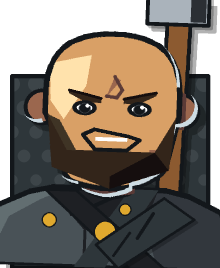
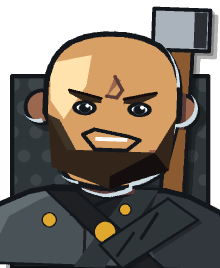
Harden Orlov and Ferrow and clear Morn's hammer from the frame (#564)
* Harden Orlov and Ferrow and clear Morn's hammer from the frame

Two of the six grey rows still read friendly: Orlov's smirk and Ferrow's
bared teeth, both over eyes big enough to catch the light twice. Both take
a clenched mouth and a smaller eye dial instead.

Morn's hammer head was cut flat by the first row of the portrait, which
reads as a crop accident rather than as an object leaving the frame. The
head drops far enough to clear it once his pose is applied, and a test
holds it there.

* Tighten the Iron eye cap to the widest eye left on the sheet

At 0.94 a narrowed lid still left a round bright sclera, so the lint passed
the face the QA sweep flagged. 0.90 is what the six grey rows now wear.

diff --git a/generators/portraits/tests/test_props.py b/generators/portraits/tests/test_props.py
@@ -167,6 +167,18 @@ class TheCigarClearsTheMouth(unittest.TestCase):
         self.assertIn((*props.GOLD, 255), colours)
 
 
+class TheHammerClearsTheTopOfTheFrame(unittest.TestCase):
+    """Radek Morn's hammer head was cut flat by the first row of the portrait,
+    which reads as a crop accident. It is the head's own edge that has to clear
+    the frame, so this is measured on the hammer rather than on every prop:
+    Ivar Thorne's axe leaves the same edge on a diagonal, which reads as an
+    object continuing past the frame instead of one sliced off by it."""
+
+    def test_the_head_stops_short_of_the_first_row(self):
+        top = bust.prop_art(roster.FACES["radek_morn"]).getbbox()[1]
+        self.assertGreater(top, 0)
+
+
 class EveryPropCasts(unittest.TestCase):
     def test_the_shadow_lands_outside_the_prop(self):
         for key in sorted(props.PROPS):

diff --git a/generators/portraits/portraitgen/roster.py b/generators/portraits/portraitgen/roster.py
@@ -150,8 +150,8 @@ FACES: dict[str, Face] = {
             style="buzz",
             brow="cocked",
             eyes="lidded",
-            mouth="smirk",
-            eye=0.86,
+            mouth="clench",
+            eye=0.82,
             facial="stubble",
             acc="scar",
             collar="v",
@@ -399,8 +399,8 @@ FACES: dict[str, Face] = {
             style="buzz",
             brow="heavy",
             eyes="narrow",
-            mouth="snarl",
-            eye=0.94,
+            mouth="clench",
+            eye=0.84,
             facial="stubble",
             acc="fieldcap",
             acc2="scar",

diff --git a/generators/portraits/tests/test_roster.py b/generators/portraits/tests/test_roster.py
@@ -285,7 +285,10 @@ class TheGreyArmyWearsTheVillainsFace(unittest.TestCase):
 
     SOFT_MOUTHS = ("grin", "laugh", "neutral", "open", "smile", "wry")
     HARD_EYES = ("lidded", "narrow")
-    WIDEST_EYE = 0.94
+    # The widest Iron eye on the sheet. It was 0.94, and at that dial a
+    # narrowed lid still leaves a round, bright sclera that reads friendly at
+    # bust size, which is the QA finding this cap was tightened for.
+    WIDEST_EYE = 0.90
 
     def iron_faces(self) -> list[roster.Face]:
         return [f for k, f in roster.FACES.items() if bust.FACTION_OF[k] == "iron"]

diff --git a/generators/portraits/portraitgen/props.py b/generators/portraits/portraitgen/props.py
@@ -240,8 +240,8 @@ def _axe_back(canvas: Canvas, faction: Faction, ramp: Ramp) -> None:
 
 def _hammer_back(canvas: Canvas, faction: Faction, ramp: Ramp) -> None:
     _shape(canvas, [(162.0, 68.0), (180.0, 68.0), (176.0, 216.0), (158.0, 216.0)], WOOD)
-    _shape(canvas, _box(146.0, 42.0, 194.0, 76.0), STEEL)
-    canvas.rect((180.0, 44.0, 192.0, 74.0), (*SLATE, 255))
+    _shape(canvas, _box(148.0, 64.0, 192.0, 96.0), STEEL)
+    canvas.rect((180.0, 66.0, 190.0, 94.0), (*SLATE, 255))
 
 
 # --- what carries them, drawn in front ---------------------------------------
